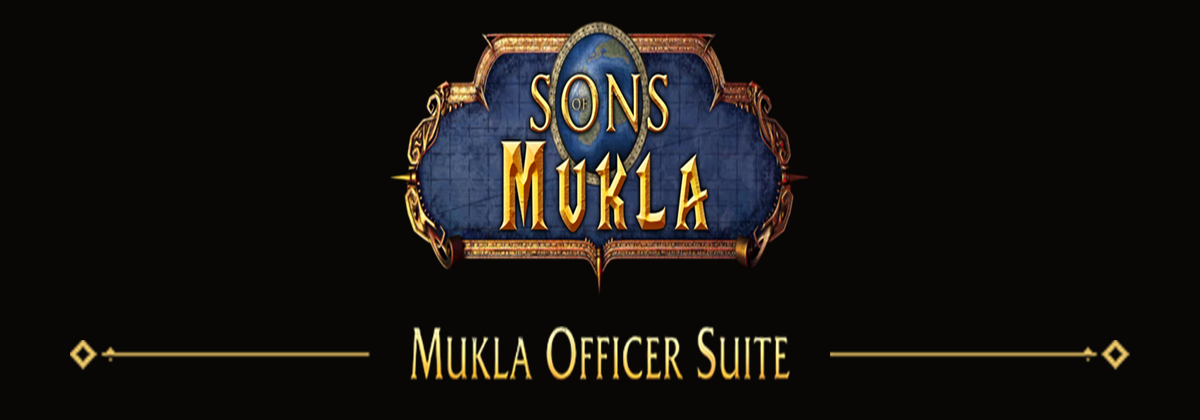
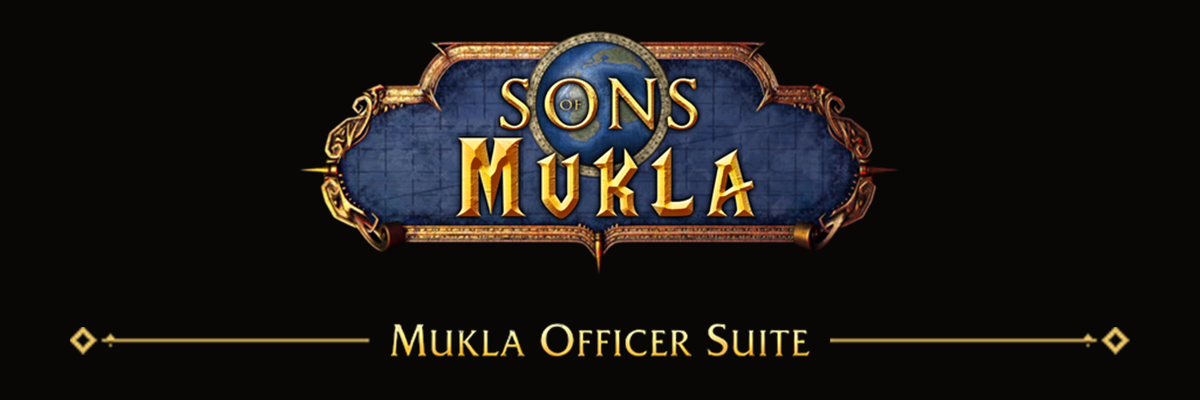
fix: preserve readme header proportions

Changed region(s): [[0.2467, 0.03, 0.74, 0.66], [0.0617, 0.78, 0.9558, 0.93]]

diff --git a/CHANGELOG.md b/CHANGELOG.md
@@ -5,6 +5,7 @@
 - Added the modular raid, loot, statistics, CSR, UI, and diagnostics workflows.
 - Added the develop/production release process and limited repository contents to release files.
 - Added the production quality gate and refreshed the user-facing README.
+- Fixed distorted proportions in the README visual header.
 
 ## 0.20.0
 
